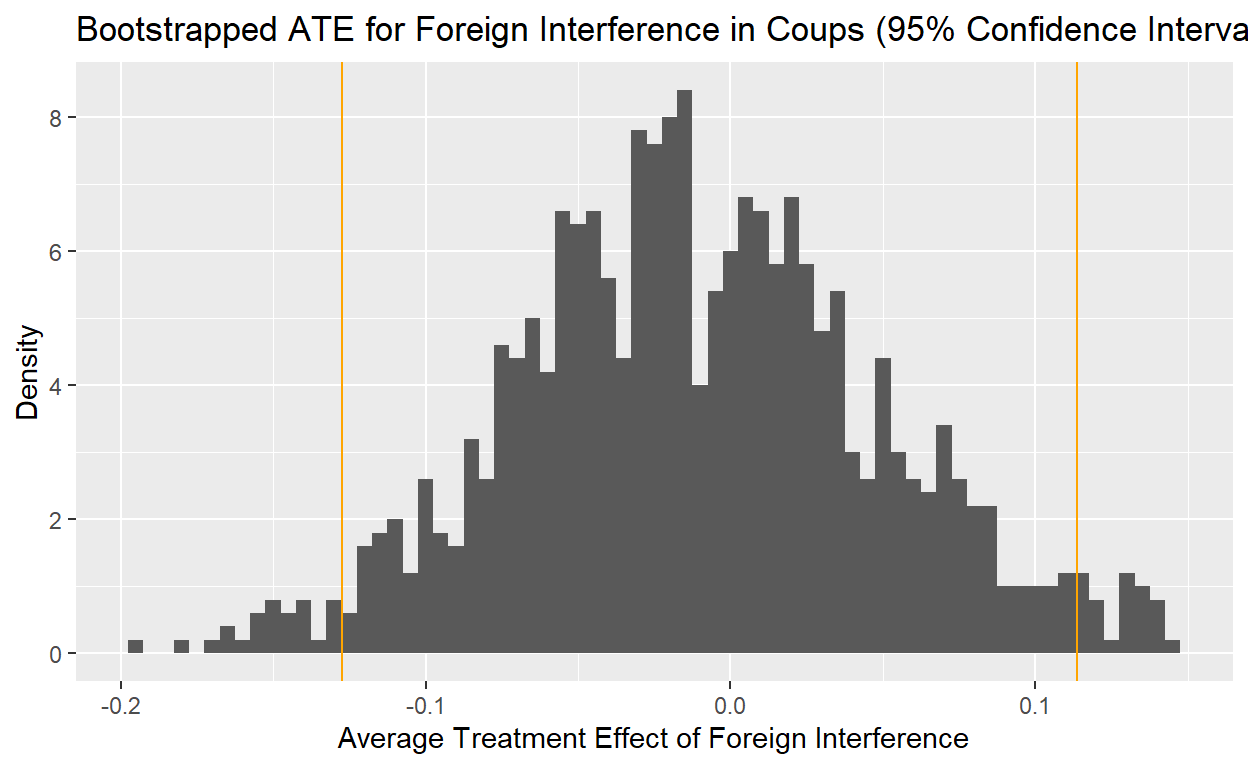
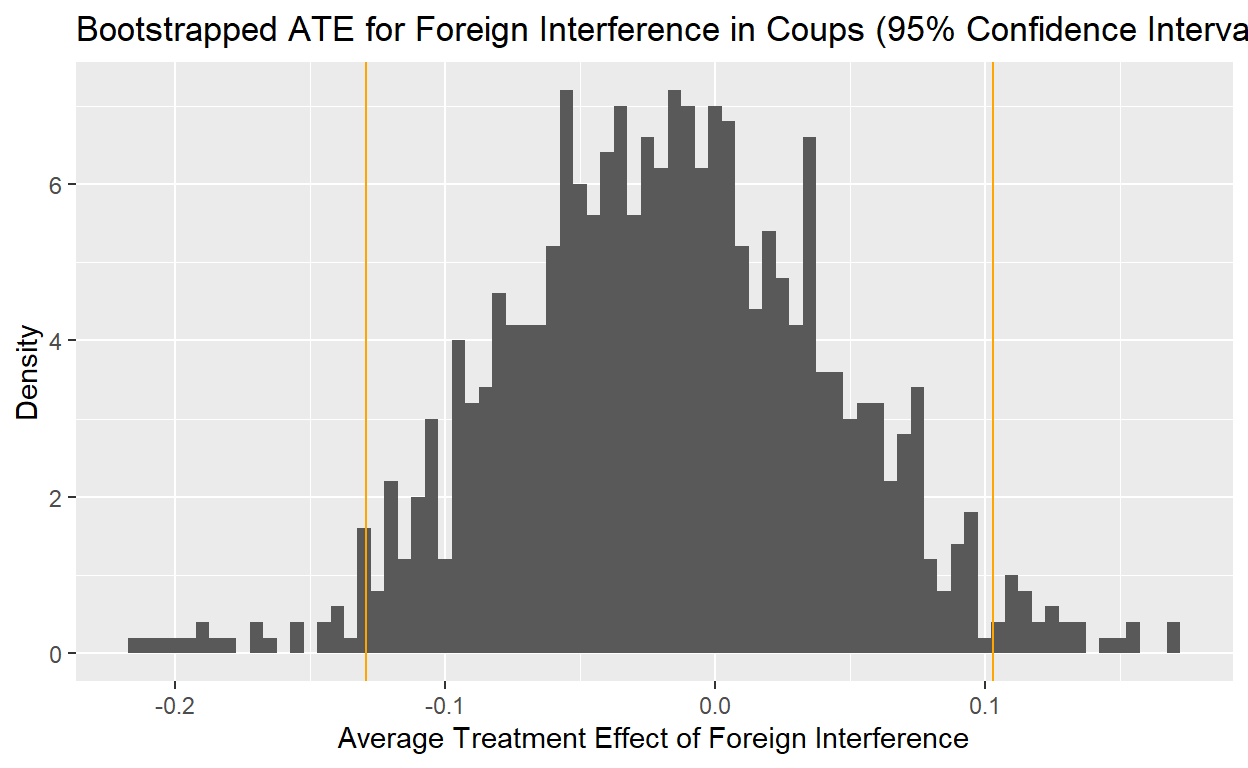
Commit

diff --git a/index.html b/index.html
@@ -1596,7 +1596,7 @@ code span.wa { color: #5e5e5e; font-style: italic; } /* Warning */
 </tbody>
 </table>
 </div>
-<p>As shown by this table, there are 76 foreign backed coup attempts in this dataset, with 33 being successful and 43 being unsuccessful, for a success rate of 0.434. There are 905 non-foreign backed coup attempts, with 408 being successful and 497 unsuccessful, for a success rate of 0.4508. Thus, in this sampling, non foreign backed coups actually have a higher rate of success than foreign backed ones, contrary to my hypothesis. We shall further test this hypothesis by using differences in means of average treatment effect when taking multiple samples.</p>
+<p>As shown by this table, there are 76 foreign backed coup attempts in this dataset, with 33 being successful and 43 being unsuccessful, for a success rate of 0.434. There are 905 non-foreign backed coup attempts, with 408 being successful and 497 unsuccessful, for a success rate of 0.4508. Thus, in this sampling, non foreign backed coups actually have a higher rate of success than foreign backed ones, contrary to my hypothesis. We shall further test this hypothesis by using difference in means of average treatment effect when taking multiple samples.</p>
 <h2 id="difference-in-means-and-treatment-effects">Difference in Means and Treatment Effects</h2>
 <div class="layout-chunk" data-layout="l-body">
 <div class="sourceCode">
@@ -1629,16 +1629,16 @@ code span.wa { color: #5e5e5e; font-style: italic; } /* Warning */
 # Groups:   replicate [1,000]
    replicate `Foreign Interference` `No Foreign Interference`      ATE
        &lt;int&gt;                  &lt;dbl&gt;                     &lt;dbl&gt;    &lt;dbl&gt;
- 1         1                  0.417                     0.447 -0.0300 
- 2         2                  0.403                     0.489 -0.0861 
- 3         3                  0.434                     0.411  0.0228 
- 4         4                  0.328                     0.450 -0.122  
- 5         5                  0.442                     0.461 -0.0197 
- 6         6                  0.384                     0.454 -0.0702 
- 7         7                  0.379                     0.421 -0.0413 
- 8         8                  0.434                     0.474 -0.0407 
- 9         9                  0.438                     0.444 -0.00548
-10        10                  0.444                     0.476 -0.0316 
+ 1         1                  0.25                      0.463 -0.213  
+ 2         2                  0.514                     0.458  0.0562 
+ 3         3                  0.375                     0.419 -0.0441 
+ 4         4                  0.413                     0.481 -0.0679 
+ 5         5                  0.384                     0.430 -0.0460 
+ 6         6                  0.398                     0.470 -0.0723 
+ 7         7                  0.459                     0.453  0.00570
+ 8         8                  0.365                     0.473 -0.108  
+ 9         9                  0.423                     0.441 -0.0177 
+10        10                  0.394                     0.439 -0.0454 
 # ℹ 990 more rows</code></pre>
 <div class="sourceCode">
 <pre class="sourceCode r"><code class="sourceCode r"><span><span class='va'>ate_ci_95</span> <span class='op'>&lt;-</span> <span class='va'>coup_boots</span> <span class='op'>|&gt;</span></span>
@@ -1650,7 +1650,7 @@ code span.wa { color: #5e5e5e; font-style: italic; } /* Warning */
 <pre><code># A tibble: 1 × 2
   lower_ci upper_ci
      &lt;dbl&gt;    &lt;dbl&gt;
-1   -0.127    0.114</code></pre>
+1   -0.129    0.103</code></pre>
 <div class="sourceCode">
 <pre class="sourceCode r"><code class="sourceCode r"><span><span class='va'>coup_boots</span><span class='op'>|&gt;</span> <span class='fu'><a href='https://ggplot2.tidyverse.org/reference/ggplot.html'>ggplot</a></span><span class='op'>(</span></span>
 <span>  mapping <span class='op'>=</span> <span class='fu'><a href='https://ggplot2.tidyverse.org/reference/aes.html'>aes</a></span><span class='op'>(</span>x<span class='op'>=</span> <span class='va'>ATE</span><span class='op'>)</span><span class='op'>)</span><span class='op'>+</span> </span>
@@ -1670,16 +1670,16 @@ code span.wa { color: #5e5e5e; font-style: italic; } /* Warning */
 # Groups:   replicate [1,000]
    replicate `Foreign Interference` `No Foreign Interference`      ATE
        &lt;int&gt;                  &lt;dbl&gt;                     &lt;dbl&gt;    &lt;dbl&gt;
- 1         1                  0.417                     0.447 -0.0300 
- 2         2                  0.403                     0.489 -0.0861 
- 3         3                  0.434                     0.411  0.0228 
- 4         4                  0.328                     0.450 -0.122  
- 5         5                  0.442                     0.461 -0.0197 
- 6         6                  0.384                     0.454 -0.0702 
- 7         7                  0.379                     0.421 -0.0413 
- 8         8                  0.434                     0.474 -0.0407 
- 9         9                  0.438                     0.444 -0.00548
-10        10                  0.444                     0.476 -0.0316 
+ 1         1                  0.25                      0.463 -0.213  
+ 2         2                  0.514                     0.458  0.0562 
+ 3         3                  0.375                     0.419 -0.0441 
+ 4         4                  0.413                     0.481 -0.0679 
+ 5         5                  0.384                     0.430 -0.0460 
+ 6         6                  0.398                     0.470 -0.0723 
+ 7         7                  0.459                     0.453  0.00570
+ 8         8                  0.365                     0.473 -0.108  
+ 9         9                  0.423                     0.441 -0.0177 
+10        10                  0.394                     0.439 -0.0454 
 # ℹ 990 more rows</code></pre>
 </div>
 <p>Based on the bootstrapping of average treatment effect for foreign interference, there is no evidence that foreign interference increases the likelihood of success for a coup attempt. In the 95% confidence interval, the lower confidence interval is -0.133 (which means that foreign backing is correlated with a lower coup success rate), and the upper confidence interval is 0.096 (foreign backing is correlated with higher success rate). It would be plausible to expect an ATE anywhere within this range, including zero (foreign backing having no effect on success or failure).Therefore, it is inconclusive what kind of effect that foreign interference has on the success rate of coups. My hypothesis that foreign backing increases the likelihood of coup success is not backed by this data.</p>
